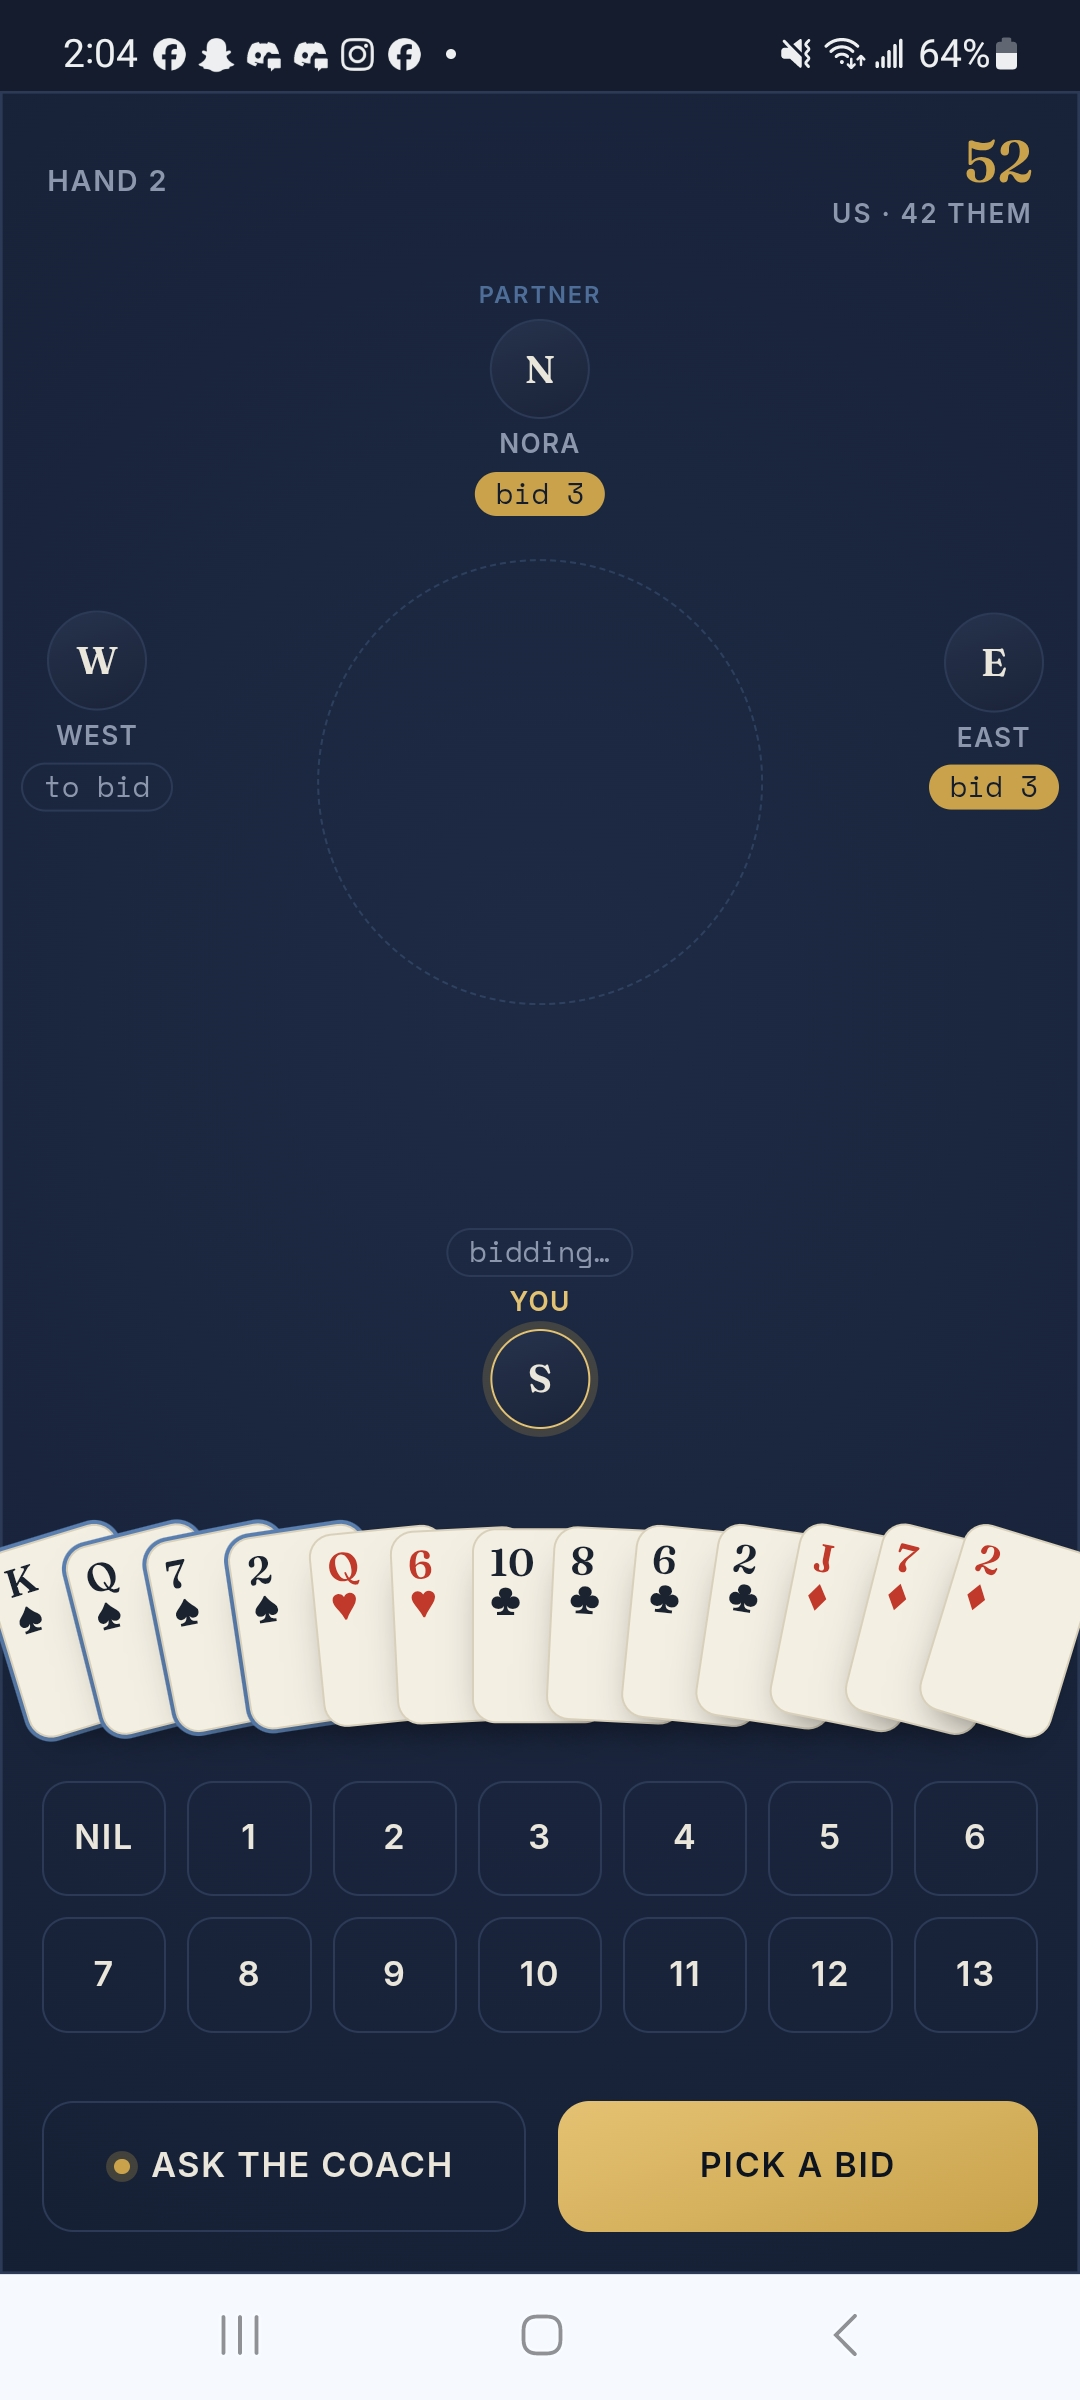
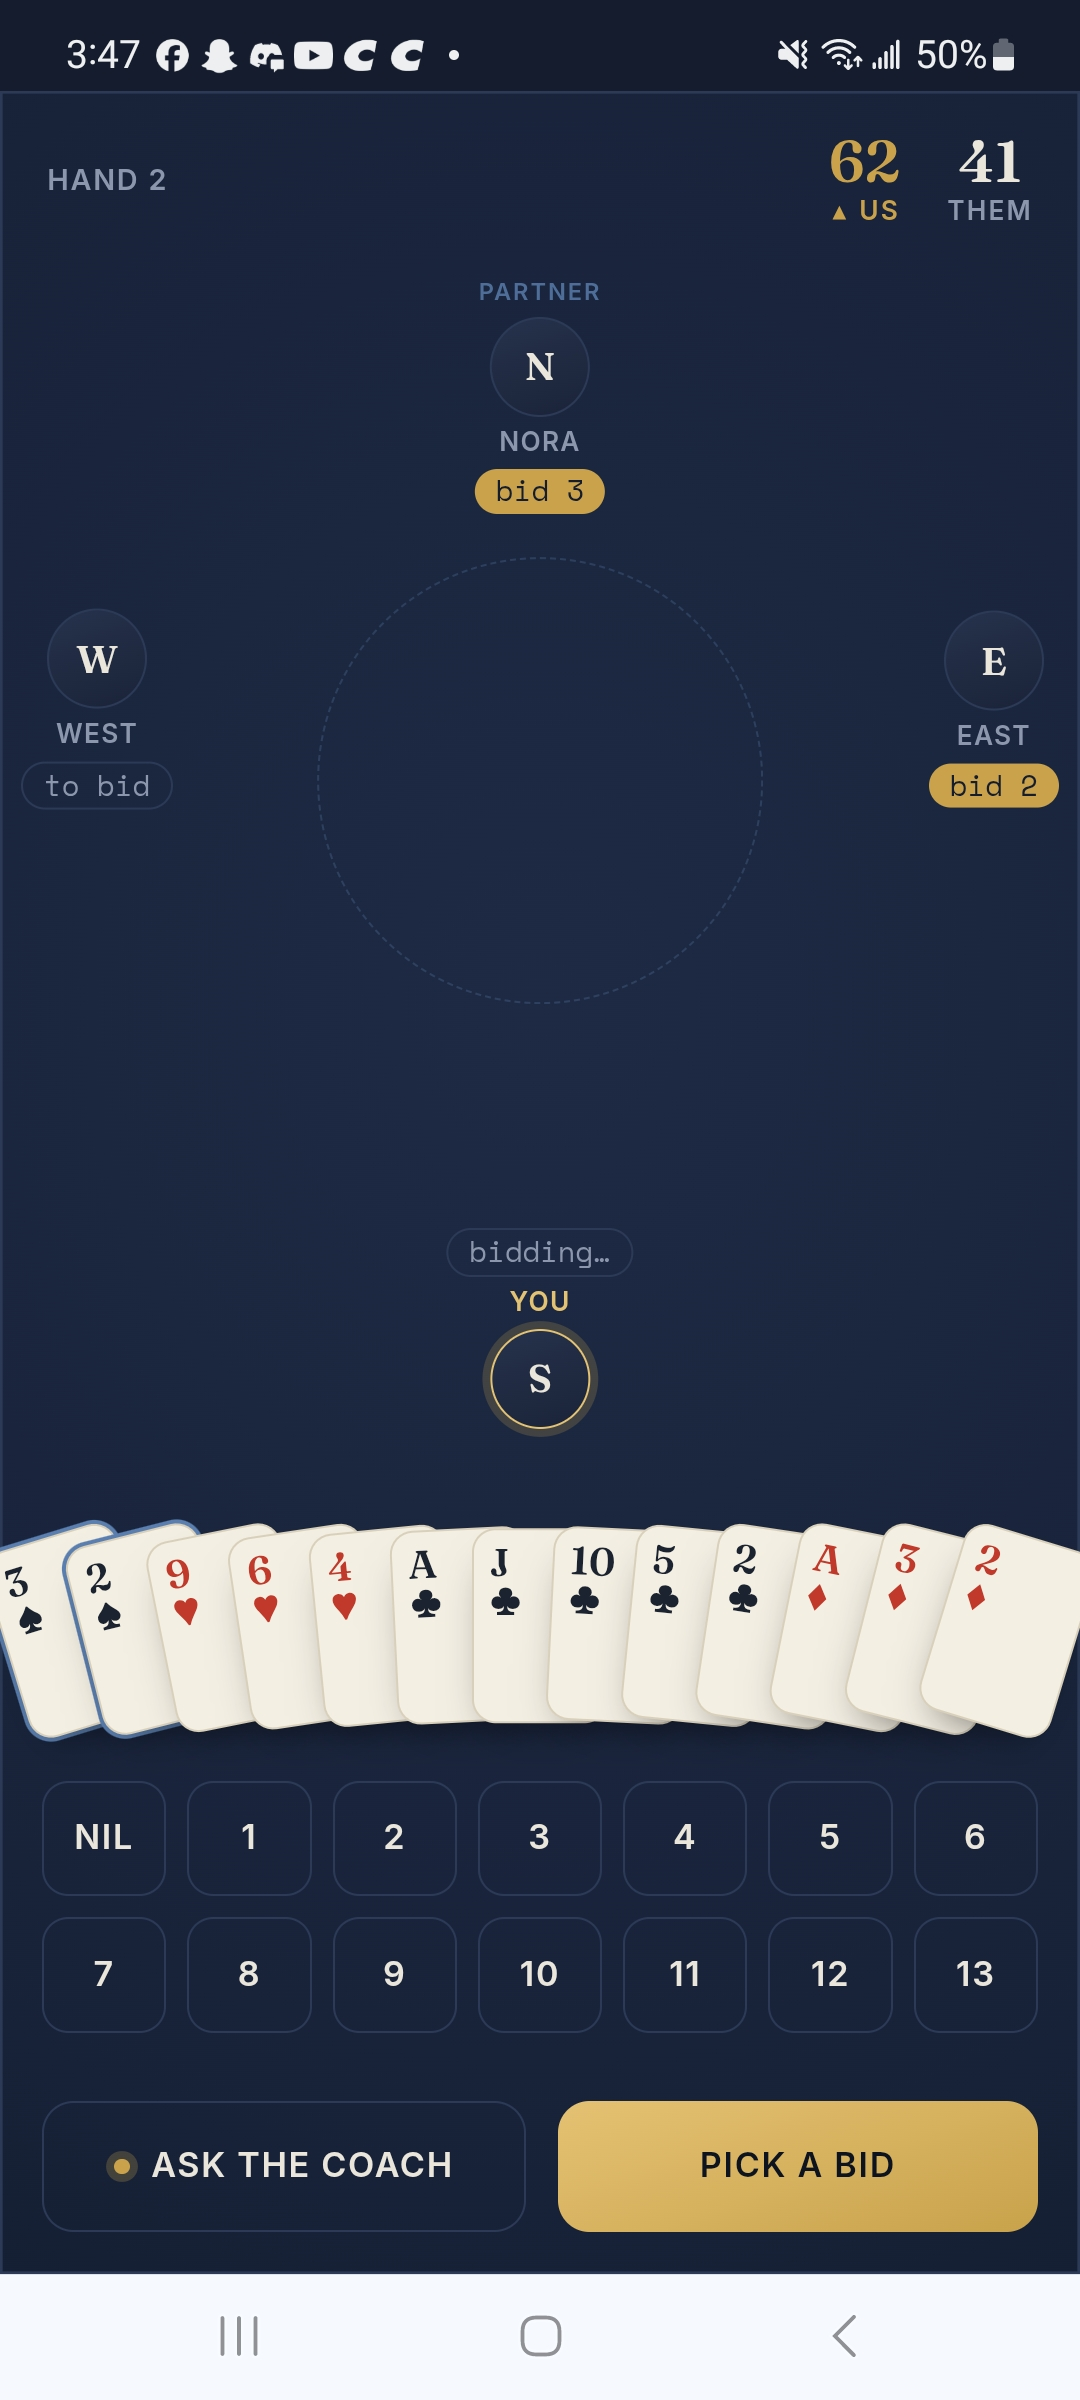
docs: use current screenshot showing the two-column scoreboard
Swap the README gameplay shot for spades-008 — it reflects the new
two-column US/THEM scoreboard and the auto-sorted hand.

diff --git a/README.md b/README.md
@@ -14,7 +14,7 @@
 **Spades Coach** is a fully client-side (no server) game of [Spades](https://en.wikipedia.org/wiki/Spades_%28card_game%29) — you and an AI partner versus two AI opponents — with a coach that explains the *why* behind every decision. Ask for advice on any bid or play and it tells you **what to do and the reasoning**, drawing on the exact same analysis the bots use. It never plays for you; it teaches.
 
 <p align="center">
-  <img src="./assets/readme/screenshot.jpg" width="300" alt="Spades Coach on Android — status-bar scoreboard, compass-rose table with seat bids, a fanned hand, and the bid picker">
+  <img src="./assets/readme/screenshot.jpg" width="300" alt="Spades Coach on Android — the two-column US/THEM scoreboard, compass-rose table with seat bids, an auto-sorted fanned hand, and the bid picker">
 </p>
 
 ## Features